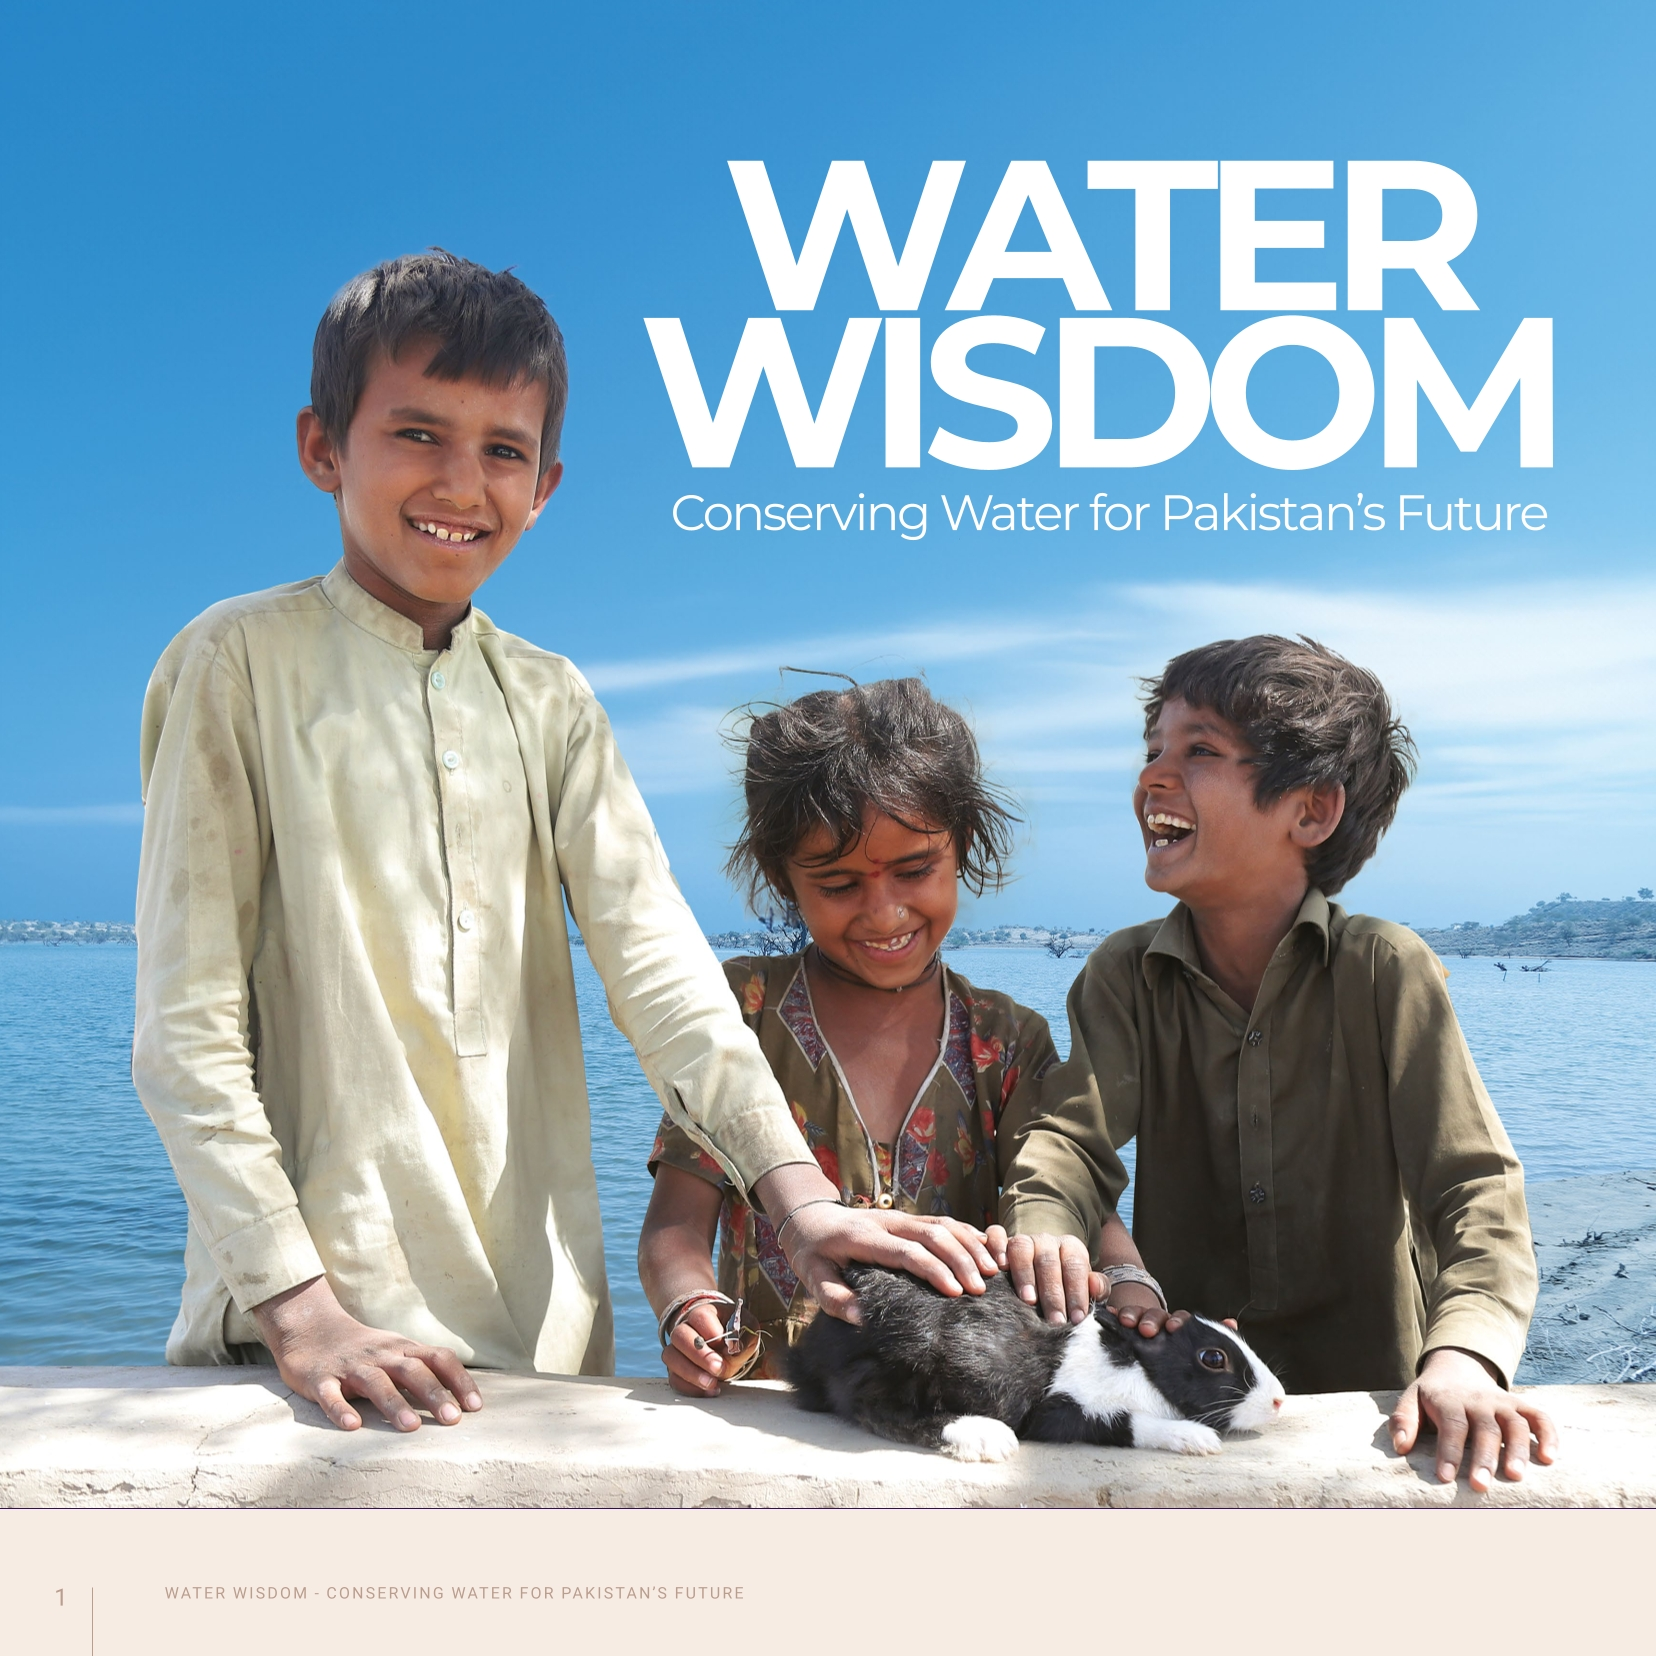
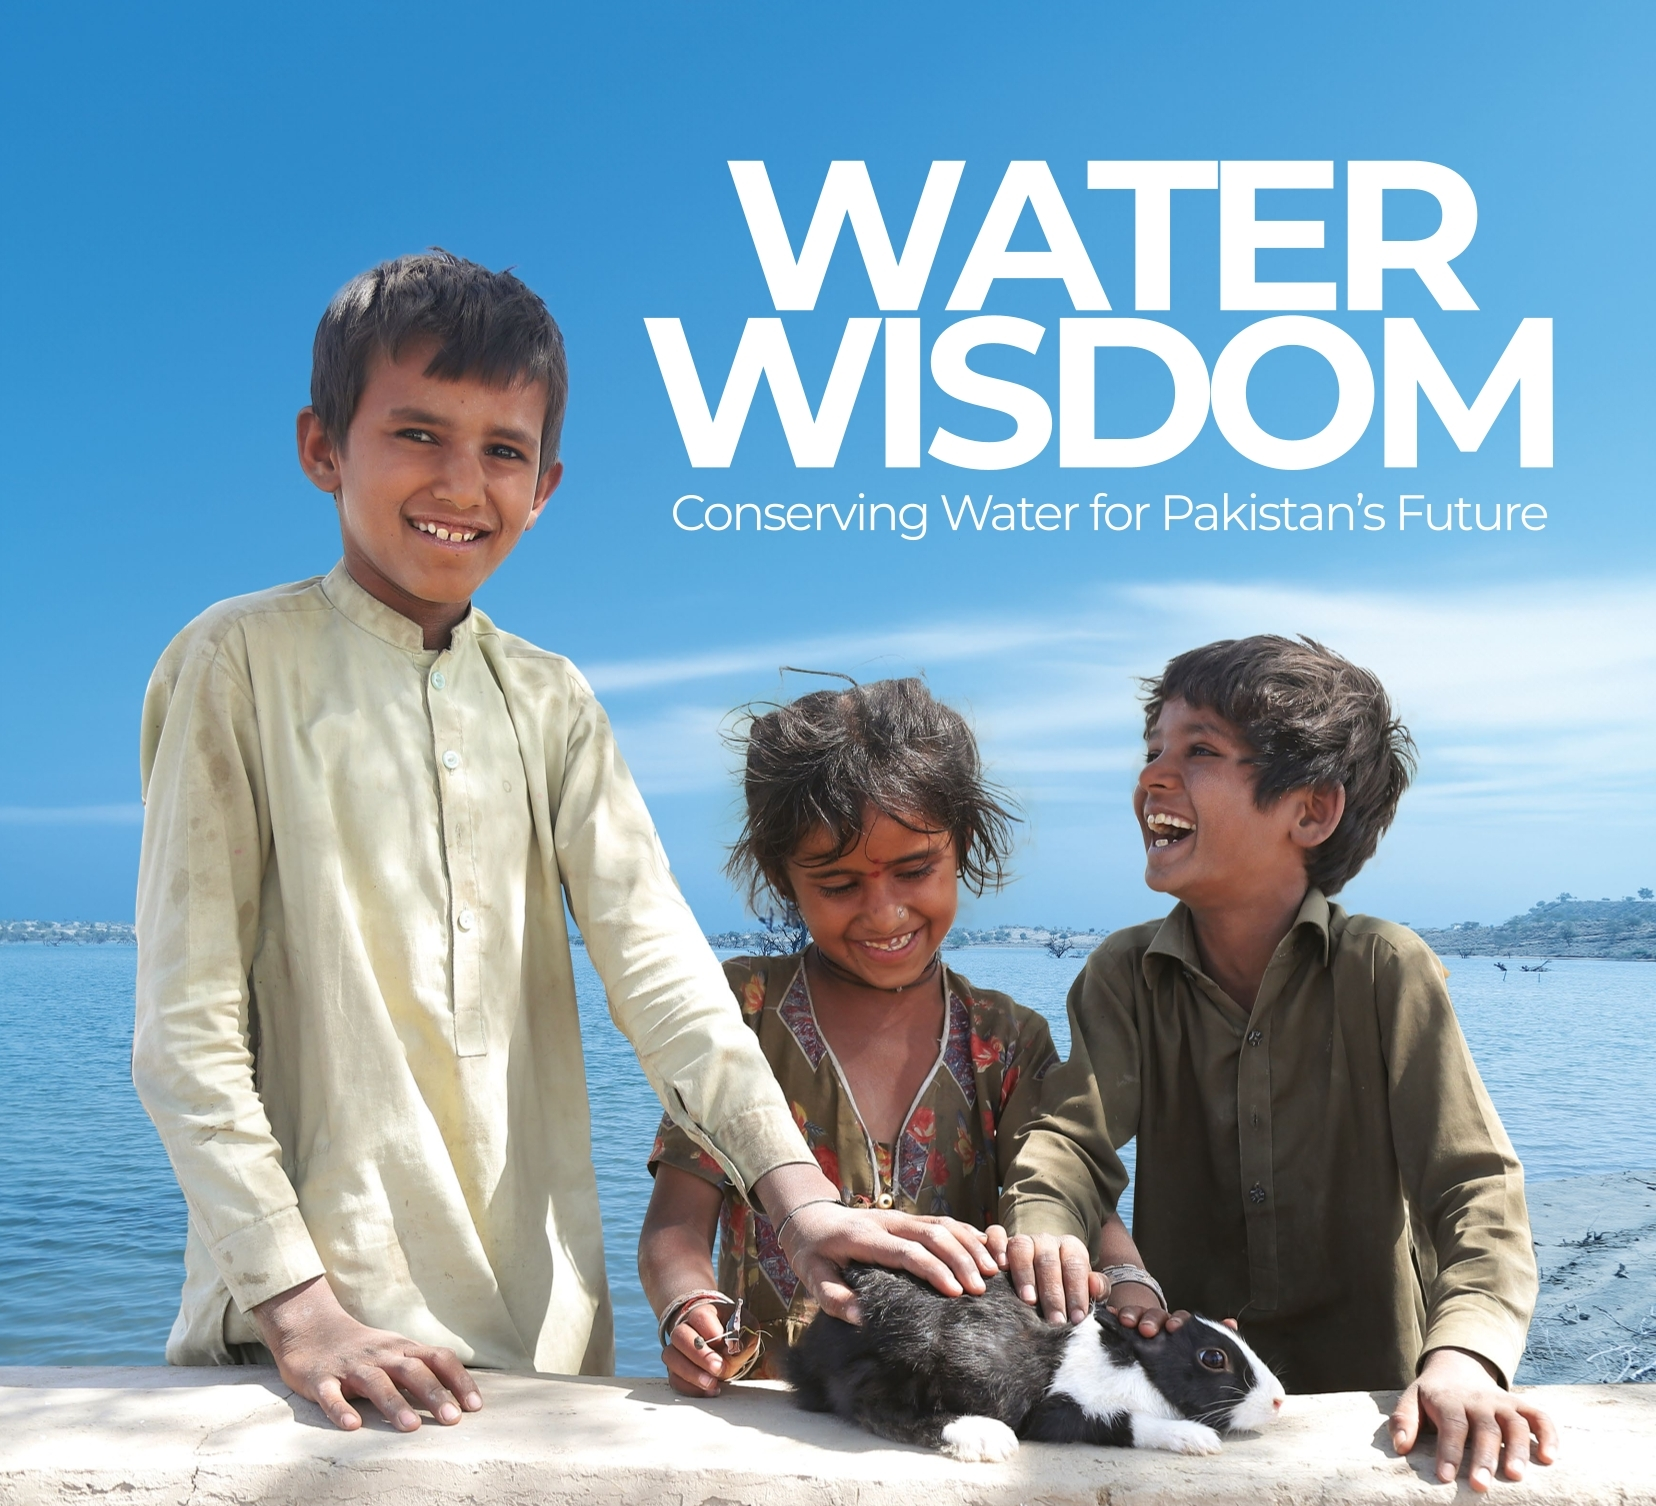
ui remove footer of cover page

diff --git a/src/components/Sidebar.jsx b/src/components/Sidebar.jsx
@@ -1,4 +1,4 @@
-import React, { useState } from 'react';
+import React, { useState, useEffect } from 'react';
 import { useDispatch, useSelector } from 'react-redux';
 import { toggleSidebar } from '../store/sidebarSlice';
 import { Link as ScrollLink } from 'react-scroll';
@@ -13,8 +13,6 @@ const Sidebar = () => {
 
   const menuItems = [
     { title: 'About the Book', url: 'Page5', route: '/about', page: '04' },
-    // { title: 'Message, Secretary, Sindh Irrigation Department', url: 'Page9', route: '/messagesindh', page: '06' },
-    // { title: 'Message, Secretary, Sindh Agriculture Department', url: 'Page10', route: '/messagesindh', page: '07' },
     { title: 'Introduction', url: 'Page7', route: '/introduction', page: '08' },
     { title: 'Water Resources of Sindh Province', url: 'Page9', route: '/waterresources', page: '10' },
     { title: 'Climate Dynamics and their Impacts', url: 'Page11', route: '/climatedynamics', page: '12' },
@@ -42,6 +40,37 @@ const Sidebar = () => {
     { title: 'Glossary of Terms', url: 'Page82', route: '/glossary', page: '84' },
   ];
 
+  // Set active item based on current scroll position or route
+  useEffect(() => {
+    if (isDashboard) {
+      // On dashboard, set active item based on scroll position
+      const handleScroll = () => {
+        const scrollPosition = window.scrollY + 100; // Adjust offset as needed
+        const currentSection = menuItems.find((item) => {
+          if (item.isHeading) return false;
+          const element = document.getElementById(item.url);
+          if (element) {
+            const { offsetTop, offsetHeight } = element;
+            return scrollPosition >= offsetTop && scrollPosition < offsetTop + offsetHeight;
+          }
+          return false;
+        });
+        if (currentSection) {
+          setActiveItem(currentSection.url);
+        }
+      };
+
+      window.addEventListener('scroll', handleScroll);
+      return () => window.removeEventListener('scroll', handleScroll);
+    } else {
+      // On other routes, set active item based on the current route
+      const currentItem = menuItems.find((item) => item.route === location.pathname);
+      if (currentItem) {
+        setActiveItem(currentItem.url);
+      }
+    }
+  }, [isDashboard, location.pathname]);
+
   const handleSetActive = (to) => {
     setActiveItem(to);
   };
@@ -63,11 +92,11 @@ const Sidebar = () => {
           isOpen ? 'translate-x-0 w-[80%] sm:w-[420px]' : 'translate-x-[-100%] w-[0px]'
         }`}
       >
-<div className='relative text-vertical-line'>
-        <div className="absolute left-[-158px] tracking-[4px] top-[230px] -translate-y-1/2 transform -rotate-90 text-white font-semibold tracking-widest text-[24px]">
-          TABLE OF CONTENTS
+        <div className="relative text-vertical-line">
+          <div className="absolute left-[-158px] tracking-[4px] top-[230px] -translate-y-1/2 transform -rotate-90 text-white font-semibold tracking-widest text-[24px]">
+            TABLE OF CONTENTS
+          </div>
         </div>
-</div>
 
         <div className="text-center pt-4 pb-3 z-10">
           <h2 className="text-xl font-bold tracking-wide text-white">WATER WISDOM</h2>
@@ -76,7 +105,7 @@ const Sidebar = () => {
         <nav className="px-1 py-2 scrollbar-thin scrollbar-thumb-blue-300 scrollbar-track-blue-50">
           <ul>
             {menuItems.map((item, index) => (
-              <li key={index} className="text-[13px] ">
+              <li key={index} className="text-[13px]">
                 {item.isHeading ? (
                   <div className="px-4 py-1 font-semibold text-white ps-4">
                     {renderLineWithDots(item.title, '')}
@@ -95,9 +124,10 @@ const Sidebar = () => {
                         className={`block px-4 py-0 ${
                           activeItem === item.url
                             ? 'text-gray-800 font-bold'
-                            : ' text-gray-800 font-light'
+                            : 'text-gray-800 font-light'
                         }`}
-                        onClick={() => {
+                        onClick={(e) => {
+                          e.stopPropagation(); // Prevent event propagation
                           setActiveItem(item.url);
                           if (window.innerWidth < 768) dispatch(toggleSidebar());
                         }}
@@ -110,9 +140,10 @@ const Sidebar = () => {
                         className={`block px-4 py-0 ${
                           activeItem === item.url
                             ? 'text-gray-800 font-semibold'
-                            : ' text-gray-800'
+                            : 'text-gray-800'
                         }`}
-                        onClick={() => {
+                        onClick={(e) => {
+                          e.stopPropagation(); // Prevent event propagation
                           setActiveItem(item.url);
                           if (window.innerWidth < 768) dispatch(toggleSidebar());
                         }}
@@ -131,7 +162,10 @@ const Sidebar = () => {
       {isOpen && (
         <div
           className="fixed inset-0 z-20 bg-black bg-opacity-50 md:hidden"
-          onClick={() => dispatch(toggleSidebar())}
+          onClick={(e) => {
+            e.stopPropagation(); // Prevent event propagation
+            dispatch(toggleSidebar());
+          }}
         />
       )}
     </>

diff --git a/src/App.jsx b/src/App.jsx
@@ -1,5 +1,5 @@
-import { lazy, Suspense } from 'react';
-import { BrowserRouter, Routes, Route } from 'react-router-dom';
+import { lazy, Suspense , useEffect} from 'react';
+import { BrowserRouter, Routes, Route, useLocation } from 'react-router-dom';
 import './App.css';
 import Loader from './components/Loader';
 
@@ -33,9 +33,20 @@ const Kund = lazy(() => import('./pages/Kund'));
 const TheGreatWall = lazy(() => import('./pages/TheGreatWall'));
 
 function App() {
+function ScrollToTop() {
+  const { pathname } = useLocation();
+
+  useEffect(() => {
+    window.history.scrollRestoration = 'manual'; // Disable browser scroll restoration
+    window.scrollTo(0, 0); // Scroll to top on route change
+  }, [pathname]);
+
+  return null;
+}
   return (
     <Suspense fallback={<Loader />}>
       <BrowserRouter>
+     <ScrollToTop />
         <Routes>
           <Route path="/" element={<Home />}>
             <Route index element={<Suspense fallback={<Loader />}><Dashboard /></Suspense>} />

diff --git a/src/pages/Home.jsx b/src/pages/Home.jsx
@@ -40,7 +40,7 @@ function Home() {
       <Sidebar />
       <main
         className={`flex-1 relative transition-all duration-300 ${
-          isOpen ? 'md:ml-[420px]' : 'md:ml-0'
+          isOpen ? 'md:ml-[0px]' : 'md:ml-0'
         }`}
       >
       <nav className="bg-transparent fixed top-0 pt-2 z-50 flex items-center">

diff --git a/src/App.css b/src/App.css
@@ -35,5 +35,8 @@ html, body{
   top: 50%;
   transform: translateY(190%);
 }
+img{
+max-width: 100%;
+}
 
   
